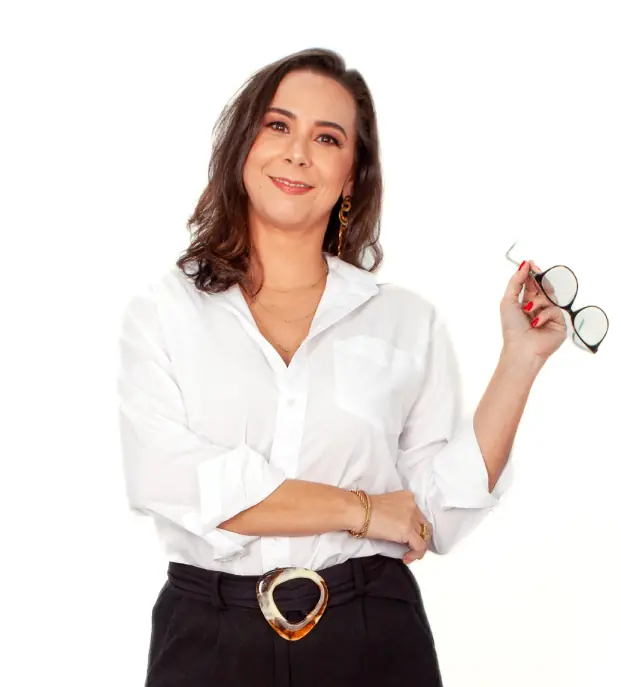
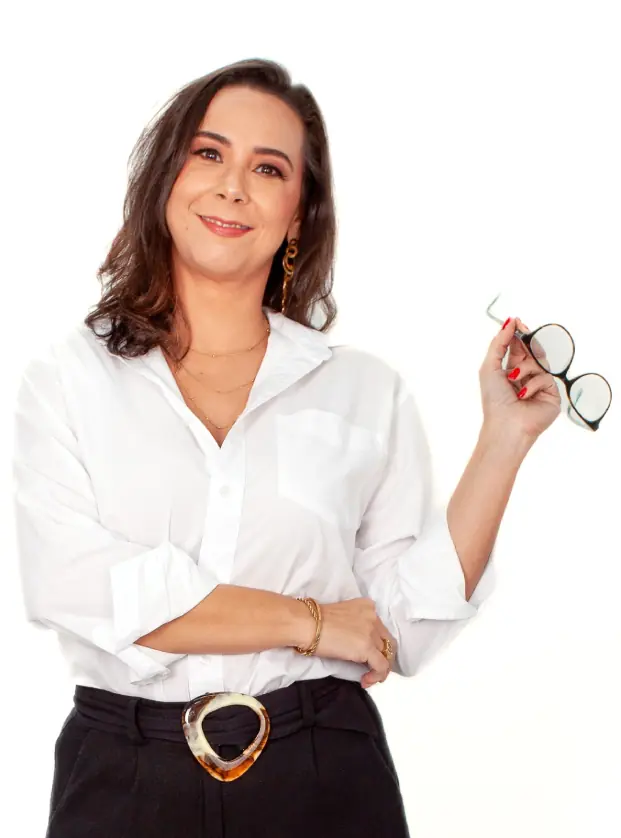
fix: Ajustes de padding e imagens novas

diff --git a/src/components/sections/AboutNovoTemplate.jsx b/src/components/sections/AboutNovoTemplate.jsx
@@ -172,7 +172,7 @@ function AboutNovoTemplate({ ButtonModal, colorMode, benefits }) {
                 initial={{ opacity: 0, x: 50 }}
                 animate={{ opacity: 1, x: 0 }}
                 transition={{ duration: 0.8, ease: 'easeOut', delay: 0.2 }}
-                className="relative w-full mt-4 tablet1:mt-8 desktop1:mt-10 m-auto overflow-visible mb-10"
+                className="relative w-full mt-4 tablet1:mt-8 desktop1:mt-0 m-auto overflow-visible mb-10 desktop1:mb-0"
               >
                 <div className="relative rounded-3xl shadow-2xl ring-1 ring-black/5">
                   {/* CLIP DA IMAGEM */}
